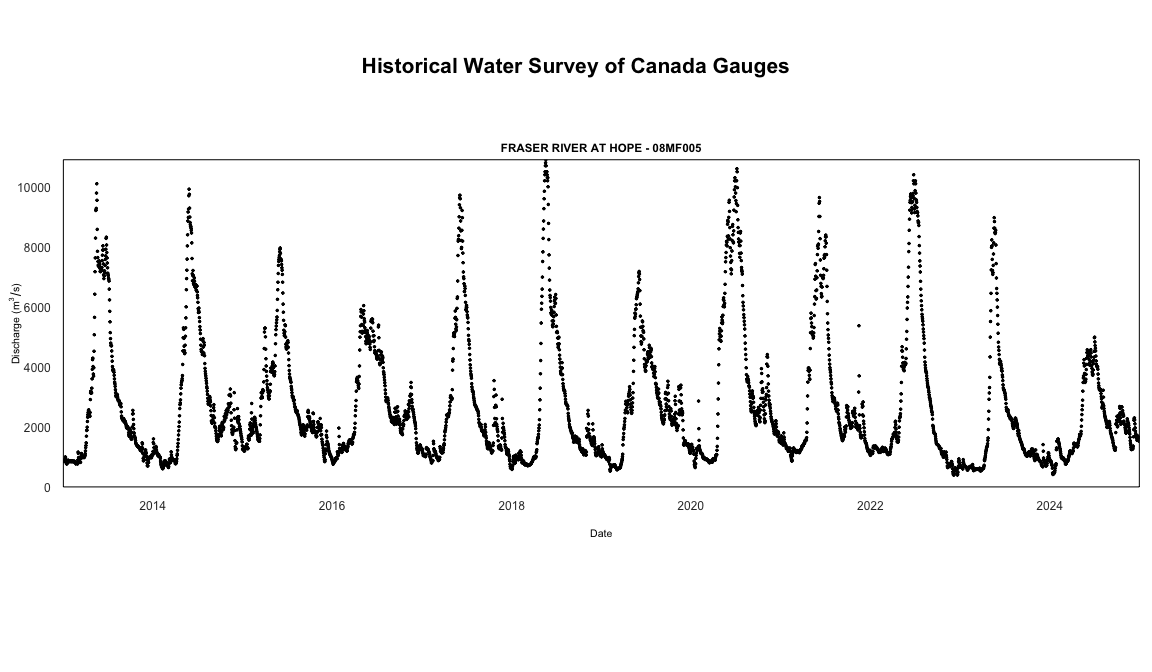
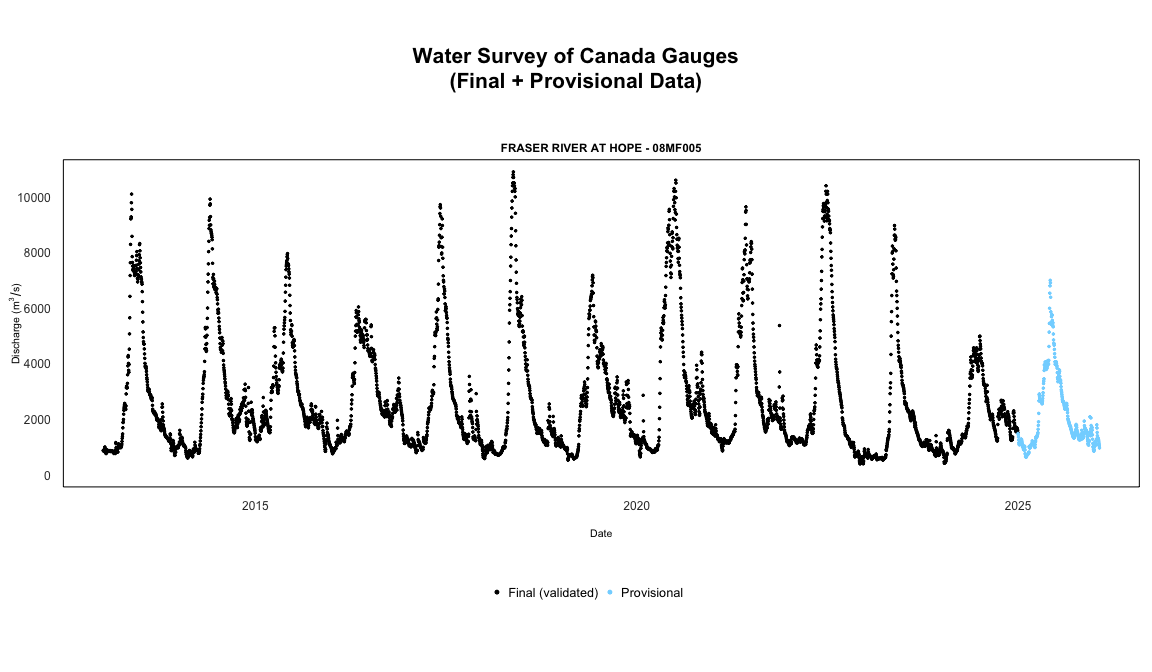
tweak print method and add a summary

diff --git a/README.md b/README.md
@@ -89,18 +89,16 @@ functions.
       start_date = "2020-01-01",
       end_date = Sys.Date()
     )
-    #>   Queried on: 2025-12-17 17:47:13.227896 (UTC)
+    #>   Queried on: 2026-01-26 18:21:45.150465 (UTC)
     #>   Historical data source: HYDAT
-    #>   Final data range: 2020-01-01 to 2024-12-31
-    #>   Provisional data range: 2025-01-01 to 2025-12-17
-    #>   Overall date range: 2020-01-01 to 2025-12-17
-    #>   Records by approval status:
+    #>   Overall date range: 2020-01-01 to 2026-01-26
+    #>   Flow records by approval status:
     #>     final: 1,827
-    #>     provisional: 351
+    #>     provisional: 391
     #>   Station(s) returned: 1
     #>   All stations successfully retrieved.
-    #>   Parameter(s): Flow
-    #> # A tibble: 2,178 × 6
+    #>   Use summary() for per-station date ranges.
+    #> # A tibble: 2,218 × 6
     #>    STATION_NUMBER Date       Parameter Value Symbol Approval
     #>    <chr>          <date>     <chr>     <dbl> <chr>  <chr>   
     #>  1 08MF005        2020-01-01 Flow       1340 <NA>   final   
@@ -113,7 +111,21 @@ functions.
     #>  8 08MF005        2020-01-08 Flow       1320 <NA>   final   
     #>  9 08MF005        2020-01-09 Flow       1230 <NA>   final   
     #> 10 08MF005        2020-01-10 Flow       1210 <NA>   final   
-    #> # ℹ 2,168 more rows
+    #> # ℹ 2,208 more rows
+
+Use `summary()` to see date ranges and record counts by station:
+
+    flows <- available_flows(
+      station_number = c("08MF005", "08NM116"),
+      start_date = "2020-01-01"
+    )
+    summary(flows)
+    #> # A tibble: 2 × 7
+    #>   STATION_NUMBER final_start final_end  final_n provisional_start
+    #>   <chr>          <date>      <date>       <int> <date>           
+    #> 1 08MF005        2020-01-01  2024-12-31    1827 2025-01-01       
+    #> 2 08NM116        2020-01-01  2023-12-31    1461 2025-01-01       
+    #> # ℹ 2 more variables: provisional_end <date>, provisional_n <int>
 
 ### Real-time
 
@@ -122,22 +134,22 @@ the same conventions discussed above. Using `realtime_dd()` we can
 easily select specific stations by supplying a station of interest:
 
     realtime_dd(station_number = "08MF005")
-    #>   Queried on: 2025-12-17 17:47:15.093674 (UTC)
-    #>   Date range: 2025-11-17 to 2025-12-17 
-    #> # A tibble: 17,500 × 8
+    #>   Queried on: 2026-01-26 18:21:52.073499 (UTC)
+    #>   Date range: 2025-12-27 to 2026-01-26 
+    #> # A tibble: 17,502 × 8
     #>    STATION_NUMBER PROV_TERR_STATE_LOC Date                Parameter Value Grade
     #>    <chr>          <chr>               <dttm>              <chr>     <dbl> <chr>
-    #>  1 08MF005        BC                  2025-11-17 08:00:00 Flow       1660 <NA> 
-    #>  2 08MF005        BC                  2025-11-17 08:05:00 Flow       1670 <NA> 
-    #>  3 08MF005        BC                  2025-11-17 08:10:00 Flow       1670 <NA> 
-    #>  4 08MF005        BC                  2025-11-17 08:15:00 Flow       1660 <NA> 
-    #>  5 08MF005        BC                  2025-11-17 08:20:00 Flow       1670 <NA> 
-    #>  6 08MF005        BC                  2025-11-17 08:25:00 Flow       1670 <NA> 
-    #>  7 08MF005        BC                  2025-11-17 08:30:00 Flow       1660 <NA> 
-    #>  8 08MF005        BC                  2025-11-17 08:35:00 Flow       1670 <NA> 
-    #>  9 08MF005        BC                  2025-11-17 08:40:00 Flow       1670 <NA> 
-    #> 10 08MF005        BC                  2025-11-17 08:45:00 Flow       1670 <NA> 
-    #> # ℹ 17,490 more rows
+    #>  1 08MF005        BC                  2025-12-27 08:00:00 Flow       1030 <NA> 
+    #>  2 08MF005        BC                  2025-12-27 08:05:00 Flow       1030 <NA> 
+    #>  3 08MF005        BC                  2025-12-27 08:10:00 Flow       1030 <NA> 
+    #>  4 08MF005        BC                  2025-12-27 08:15:00 Flow       1030 <NA> 
+    #>  5 08MF005        BC                  2025-12-27 08:20:00 Flow       1030 <NA> 
+    #>  6 08MF005        BC                  2025-12-27 08:25:00 Flow       1030 <NA> 
+    #>  7 08MF005        BC                  2025-12-27 08:30:00 Flow       1030 <NA> 
+    #>  8 08MF005        BC                  2025-12-27 08:35:00 Flow       1030 <NA> 
+    #>  9 08MF005        BC                  2025-12-27 08:40:00 Flow       1030 <NA> 
+    #> 10 08MF005        BC                  2025-12-27 08:45:00 Flow       1030 <NA> 
+    #> # ℹ 17,492 more rows
     #> # ℹ 2 more variables: Symbol <chr>, Code <chr>
 
 Or we can use `realtime_ws`:
@@ -148,24 +160,24 @@ Or we can use `realtime_ws`:
       start_date = Sys.Date() - 14,
       end_date = Sys.Date()
     )
-    #>   Queried on: 2025-12-17 17:47:16.353822 (UTC)
-    #>   Date range: 2025-12-03 to 2025-12-17 
+    #>   Queried on: 2026-01-26 18:21:53.299404 (UTC)
+    #>   Date range: 2026-01-12 to 2026-01-26 
     #>   Station(s) returned: 1
     #>   All stations successfully retrieved.
     #>   All parameters successfully retrieved.
     #> # A tibble: 4,593 × 12
     #>    STATION_NUMBER Date                Name_En  Value Unit  Grade Symbol Approval
     #>    <chr>          <dttm>              <chr>    <dbl> <chr> <lgl> <chr>  <chr>   
-    #>  1 08MF005        2025-12-03 00:00:00 Water t…  5.98 °C    NA    <NA>   Provisi…
-    #>  2 08MF005        2025-12-03 01:00:00 Water t…  5.98 °C    NA    <NA>   Provisi…
-    #>  3 08MF005        2025-12-03 02:00:00 Water t…  5.98 °C    NA    <NA>   Provisi…
-    #>  4 08MF005        2025-12-03 03:00:00 Water t…  5.99 °C    NA    <NA>   Provisi…
-    #>  5 08MF005        2025-12-03 04:00:00 Water t…  5.98 °C    NA    <NA>   Provisi…
-    #>  6 08MF005        2025-12-03 05:00:00 Water t…  5.98 °C    NA    <NA>   Provisi…
-    #>  7 08MF005        2025-12-03 06:00:00 Water t…  5.99 °C    NA    <NA>   Provisi…
-    #>  8 08MF005        2025-12-03 07:00:00 Water t…  5.98 °C    NA    <NA>   Provisi…
-    #>  9 08MF005        2025-12-03 08:00:00 Water t…  5.97 °C    NA    <NA>   Provisi…
-    #> 10 08MF005        2025-12-03 09:00:00 Water t…  5.97 °C    NA    <NA>   Provisi…
+    #>  1 08MF005        2026-01-12 00:00:00 Water t…  5.1  °C    NA    <NA>   Provisi…
+    #>  2 08MF005        2026-01-12 01:00:00 Water t…  5.11 °C    NA    <NA>   Provisi…
+    #>  3 08MF005        2026-01-12 02:00:00 Water t…  5.09 °C    NA    <NA>   Provisi…
+    #>  4 08MF005        2026-01-12 03:00:00 Water t…  5.09 °C    NA    <NA>   Provisi…
+    #>  5 08MF005        2026-01-12 04:00:00 Water t…  5.1  °C    NA    <NA>   Provisi…
+    #>  6 08MF005        2026-01-12 05:00:00 Water t…  5.1  °C    NA    <NA>   Provisi…
+    #>  7 08MF005        2026-01-12 06:00:00 Water t…  5.1  °C    NA    <NA>   Provisi…
+    #>  8 08MF005        2026-01-12 07:00:00 Water t…  5.1  °C    NA    <NA>   Provisi…
+    #>  9 08MF005        2026-01-12 08:00:00 Water t…  5.1  °C    NA    <NA>   Provisi…
+    #> 10 08MF005        2026-01-12 09:00:00 Water t…  5.11 °C    NA    <NA>   Provisi…
     #> # ℹ 4,583 more rows
     #> # ℹ 4 more variables: Parameter <dbl>, Code <chr>, Qualifier <chr>,
     #> #   Qualifiers <lgl>
@@ -216,7 +228,7 @@ web service:
       start_date = "2020-01-01",
       end_date = "2020-12-31"
     )
-    #>   Queried on: 2025-12-17 17:47:17.589349 (UTC)
+    #>   Queried on: 2026-01-26 18:21:54.50118 (UTC)
     #>   Date range: 2020-01-01 to 2020-12-31 
     #>   Station(s) returned: 1
     #>   All stations successfully retrieved.
@@ -264,7 +276,7 @@ Plot methods are also provided to quickly visualize data:
 
     plot(flows_ex)
 
-![](man/figures/README-unnamed-chunk-11-1.png)
+![](man/figures/README-unnamed-chunk-12-1.png)
 
 ## Getting Help or Reporting an Issue
 
